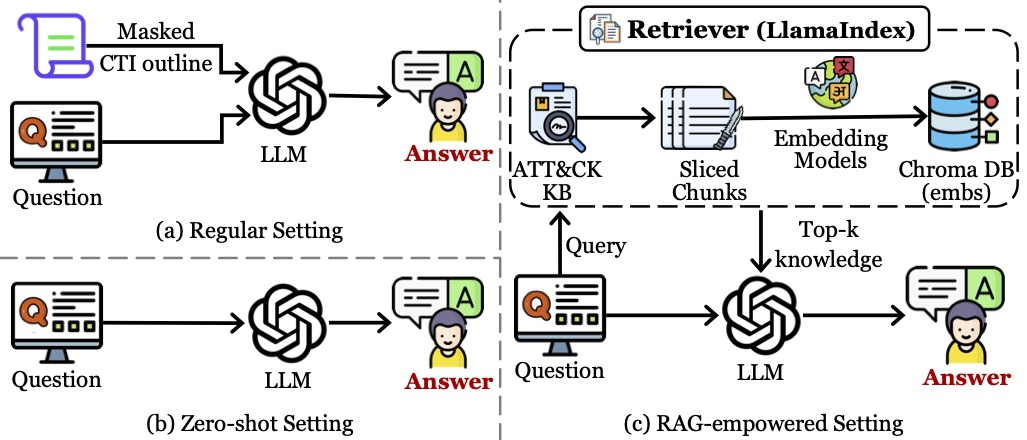
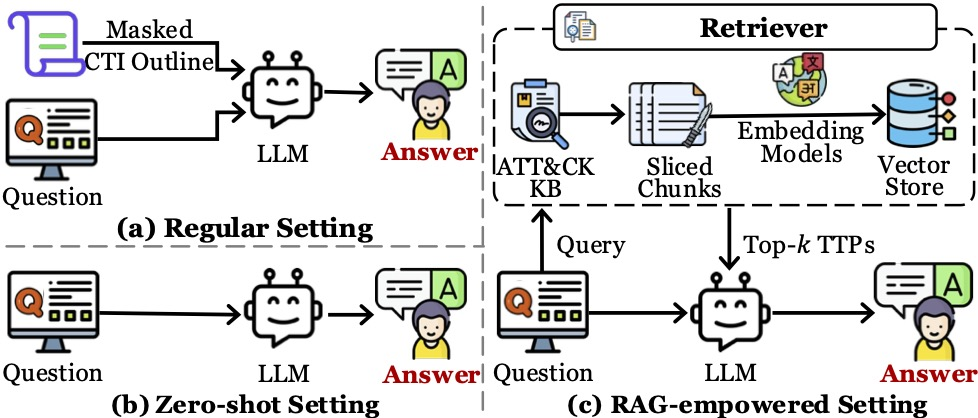
Update README figures

Changed region(s): [[0.0, 0.0, 1.0, 1.0]]

diff --git a/README.md b/README.md
@@ -7,7 +7,7 @@ a diverse set of fast-thinking and slow-thinking LLMs, while highlighting the st
 ## Dataset Construction Pipeline
 The dataset comprises of three benchmarking tasks follows the three-level structure of adversarial behavior, i.e. Tactics, Techniques, and Procedures (TTPs) as outlined in the MITRE ATT&CK knowledge base. The three QA tasks are as follow: AttackSeq-Tactic, which tests the LLM’s ability to infer a high-level ATT&CK tactic found in attack sequence; AttackSeq-Technique, which evaluates the LLM’s capability to identify a specific technique that logically fits into the attack sequence; AttackSeq-Procedure, which requires the LLM to assess the plausibility of a specific procedure based on the attack sequence. We leverage the Self-Refine framework to iteratively improve the quality of the generated questions, while adopting a hybrid approach when evaluating the questions. More specifically, we utilize G-Eval to automatically evaluate the dataset and perform human evaluation on a random sample of our dataset.
 
-![dataset](https://github.com/Javiery3889/AttackSeqBench/blob/main/images/construction.jpg?raw=true)
+![dataset](https://raw.githubusercontent.com/Javiery3889/AttackSeqBench/refs/heads/main/images/overall_structure.jpg)
 The code for the dataset construction pipeline is divided into two directories: 
 - `/question_generation` generates and construct each benchmark task using LLMs to form the initial QA dataset.
 - `/question_refinement` filters and refines the QA pairs in the initial dataset.
@@ -22,7 +22,7 @@ The code for the dataset construction pipeline is divided into two directories:
 ## LLM Benchmarking
 ### Benchmark Settings
 We design three benchmark settings to extensively evaluate the LLMs with varying amounts of contextual knowledge given to them as illustrated below.
-![benchmark settings](https://github.com/Javiery3889/AttackSeqBench/blob/main/images/benchmark_settings.jpg?raw=true)
+![benchmark settings](https://raw.githubusercontent.com/Javiery3889/AttackSeqBench/refs/heads/main/images/benchmark_settings.jpg)
 ### Benchmark Results
 Based on the three benchmark settings above, we perform extensive investigation on a diverse set of fast-thinking and slow-thinking reasoning LLMs. The benchmark results are shown in the table below.
 ![benchmark](https://github.com/Javiery3889/AttackSeqBench/blob/main/images/benchmark.png?raw=true)
